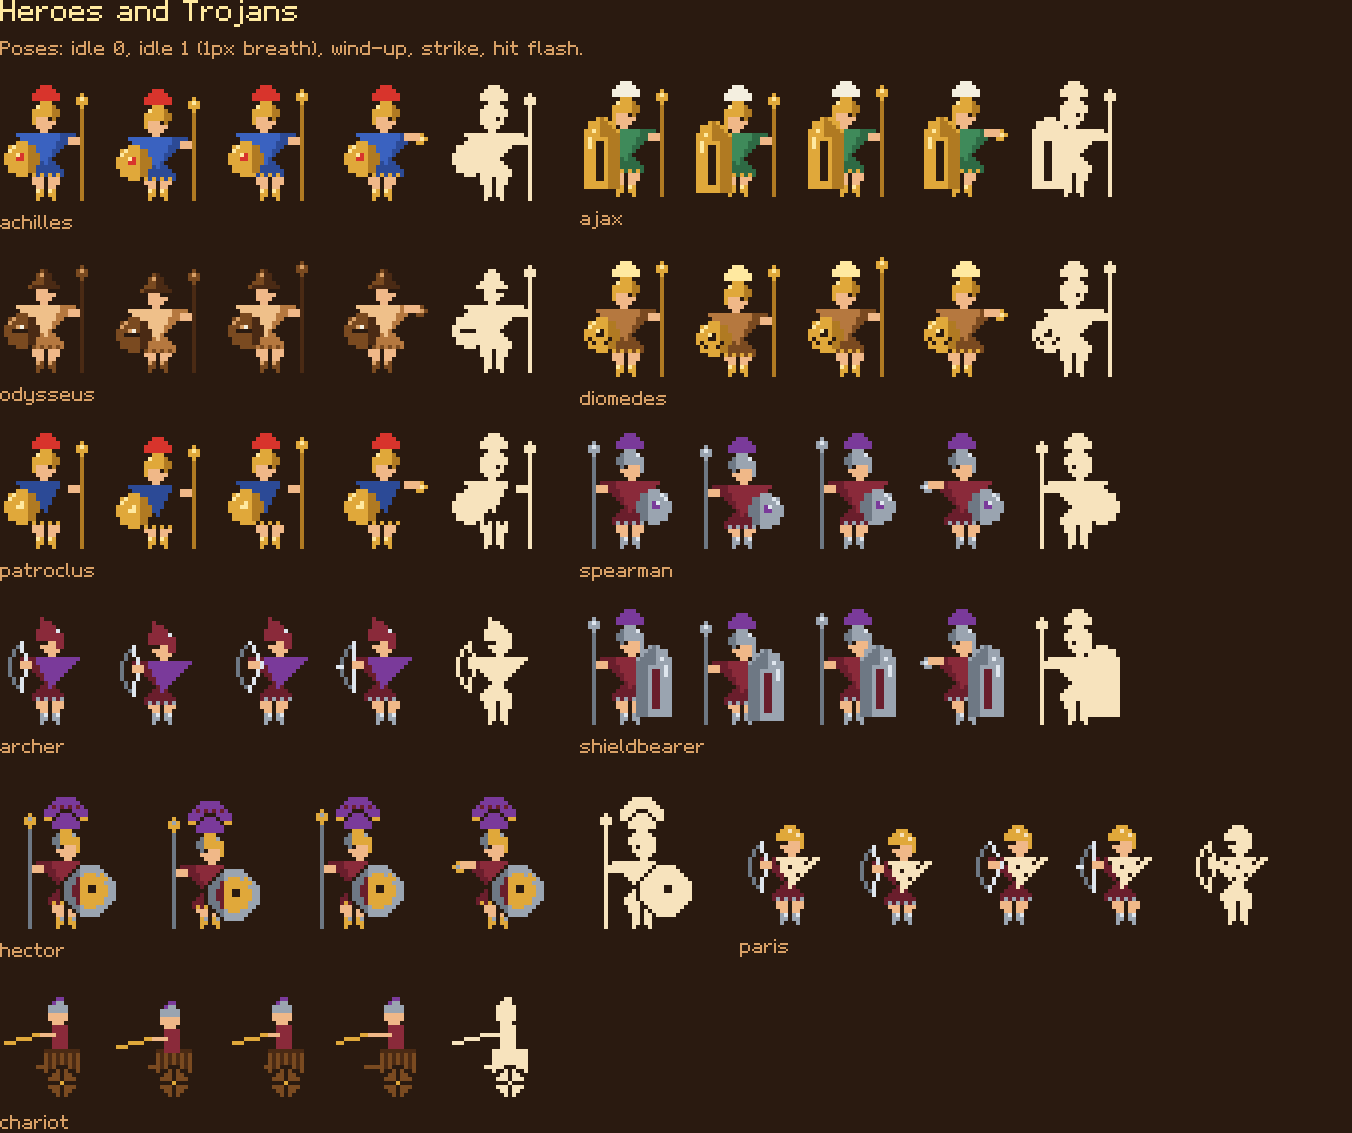
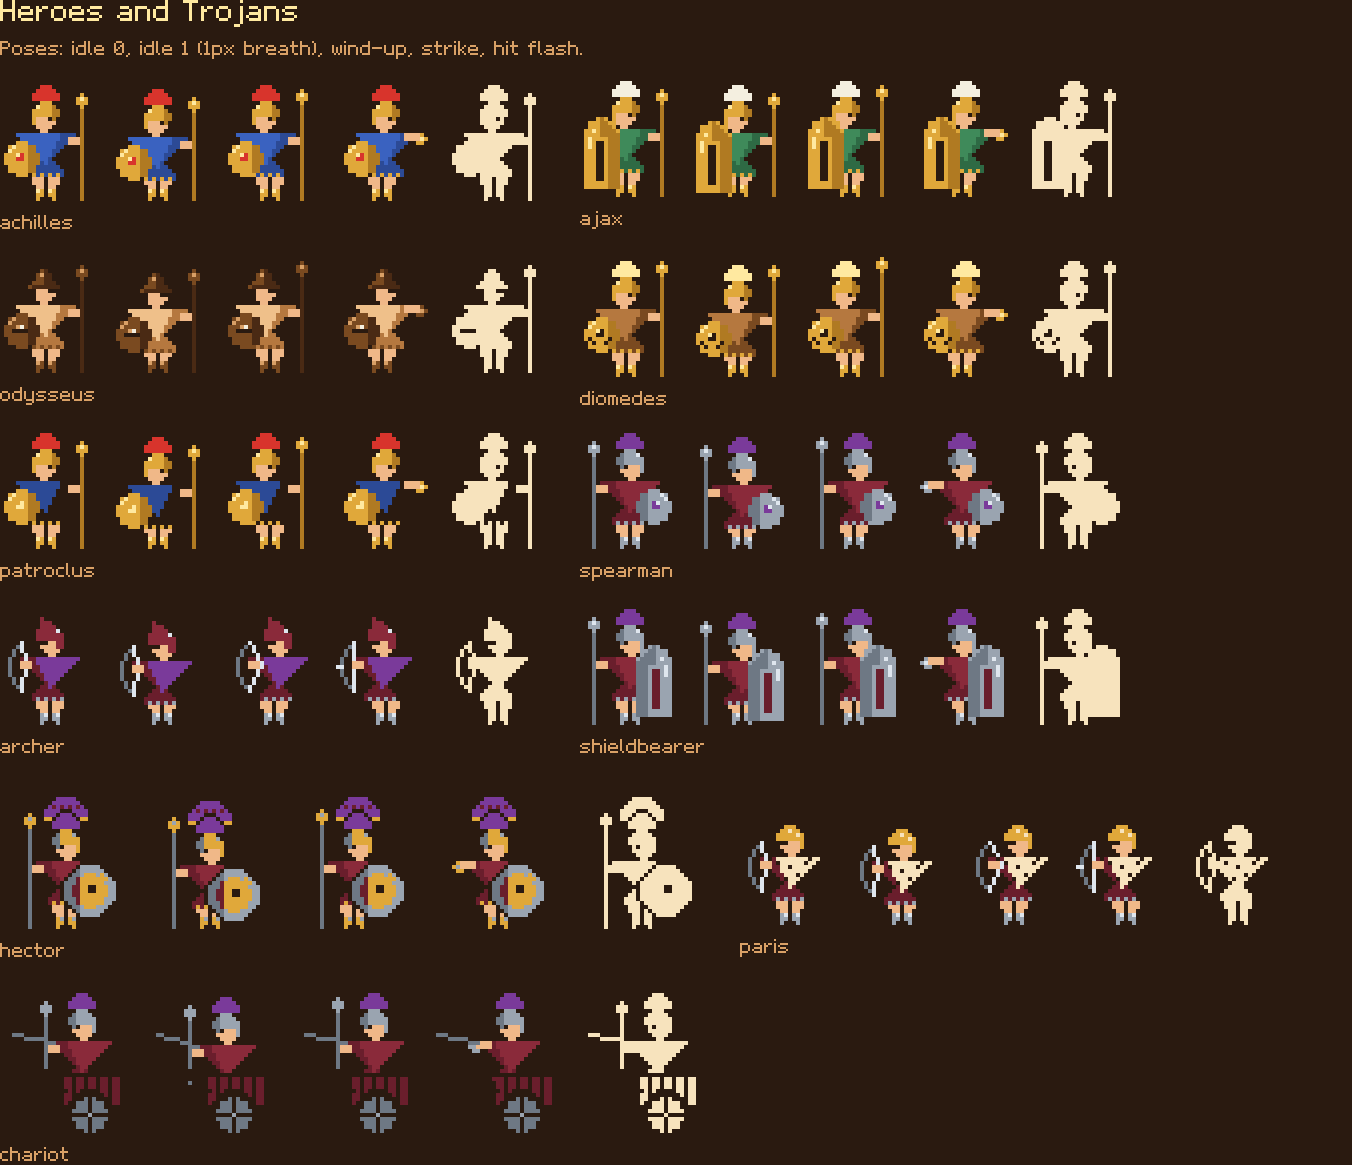
Chariot redrawn at boss size: full-scale driver, Geometric stick horse

diff --git a/src/art/sprites/bosses.ts b/src/art/sprites/bosses.ts
@@ -57,38 +57,44 @@ export function parisFrame(pose: Pose): PixelBuffer {
 }
 
 /**
- * Chariot (side view, facing left once mirrored): an ink horse, a wicker car
- * on one big four-spoke wheel, and a wine-clad driver. 24x32 cell.
+ * Chariot (side view, facing left once mirrored), 32x40 like Hector: a
+ * full-size Trojan driver standing in a wine car on a big four-spoke wheel,
+ * drawn by a Geometric stick horse in ink, exactly as horses stand on
+ * Geometric kraters: long neck, thin barrel, stick legs.
  */
+const driverSpec: FigureSpec = {
+  skin: C.skin, tunic: C.wine, tunicDk: C.wineDk, metal: C.iron, metalDk: C.ironDk, metalHi: C.iron,
+  crest: C.purple, emblem: C.purple, outline: C.ink, headgear: 'crest', shield: 'none', weapon: 'spear',
+};
+
 export function chariotFrame(pose: Pose): PixelBuffer {
-  const b = new PixelBuffer(24, 32);
+  const b = new PixelBuffer(BOSS_W, BOSS_H);
   const lunge = pose === 'strike' ? 2 : pose === 'windup' ? -1 : 0;
   const bob = pose === 'idle1' ? 1 : 0;
-  // horse (black-figure silhouette) in front, to the right before mirroring
-  const hx = 14 + lunge;
-  b.rect(hx, 19 + bob, 7, 4, C.ink); // body
-  b.triangle(hx + 6, 19 + bob, hx + 9, 13 + bob, hx + 9, 20 + bob, C.ink); // neck
-  b.rect(hx + 8, 13 + bob, 3, 2, C.ink); // head
-  b.set(hx + 7, 12 + bob, C.ink); // ear
-  for (const lx of [hx, hx + 2, hx + 5, hx + 6]) b.vline(lx, 23, 6 - (pose === 'idle1' && lx % 2 === 0 ? 1 : 0), C.ink); // legs
-    // car
-  b.rect(4, 17, 9, 6, C.umber);
-  b.hline(4, 17, 9, C.darkUmber);
-  for (let x = 5; x < 13; x += 2) b.vline(x, 18, 4, C.darkUmber);
-  b.hline(12, 21, hx - 12 + 1, C.umber); // pole to the horse
+  // driver: the standard warrior, cut at the hips, standing in the car
+  const driver = drawFigure(driverSpec, pose === 'strike' ? 'strike' : pose === 'windup' ? 'windup' : 'idle0').crop(0, 0, 24, 23);
+  b.blit(driver, 0, 2 + bob);
+  // horse, in front (right, before mirroring)
+  const hx = 17 + lunge;
+  b.rect(hx, 22, 10, 3, C.ink); // barrel
+  b.triangle(hx + 7, 23, hx + 10, 12, hx + 12, 23, C.ink); // long neck
+  b.rect(hx + 10, 11, 4, 3, C.ink); // head
+  b.set(hx + 11, 10, C.ink); // ear
+  b.line(hx, 22, hx - 2, 28, C.ink); // tail
+  const step = pose === 'idle1' ? 1 : 0;
+  for (const [lx, d] of [[hx + 1, 0], [hx + 3, step], [hx + 8, step], [hx + 10, 0]] as const) b.vline(lx + d, 25, 12, C.ink); // stick legs
+  // car and pole
+  b.rect(2, 23, 14, 8, C.wineDk);
+  b.hline(2, 23, 14, C.ink);
+  for (let x = 4; x < 16; x += 3) b.vline(x, 24, 7, C.ink);
+  b.hline(15, 27, hx - 15 + 2, C.ink); // pole
+  b.line(18 + lunge, 15 + bob, hx + 11, 13, C.ironDk); // reins
   // wheel
-  b.circle(8, 25, 4, C.ink);
-  b.circle(8, 25, 3, C.umber);
-  b.hline(5, 25, 7, C.ink);
-  b.vline(8, 22, 7, C.ink);
-  b.set(8, 25, C.bronze);
-  // driver
-  b.rect(7, 11 + bob, 4, 6, C.wine);
-    b.circle(9, 8 + bob, 2, C.skin);
-  b.halfCircle(9, 7 + bob, 2, C.iron);
-  b.set(9, 4 + bob, C.purple).set(8, 4 + bob, C.purple).set(10, 5 + bob, C.purple);
-  b.hline(10, 13 + bob, 5 + lunge, C.skin); // arms holding the reins
-  b.line(14 + lunge, 13 + bob, hx + 8, 15 + bob, C.bronze); // reins
+  b.circle(9, 33, 6, C.ink);
+  b.circle(9, 33, 4, C.ironDk);
+  b.hline(4, 33, 11, C.ink);
+  b.vline(9, 28, 11, C.ink);
+  b.set(9, 33, C.iron);
   return b.outlined(C.ink).flipped();
 }
 

diff --git a/src/view/BoardView.ts b/src/view/BoardView.ts
@@ -150,7 +150,7 @@ export class BoardView {
   spriteOrigin(type: string, x: number, y: number): { px: number; py: number } {
     if (type === 'ship') return this.shipOrigin(x, y);
     const o = unitOrigin(this.layout, x, y);
-    return type === 'hector' ? { px: o.px - 4, py: o.py - 8 } : o;
+    return type === 'hector' || type === 'chariot' ? { px: o.px - 4, py: o.py - 8 } : o;
   }
 
   shipOrigin(x: number, y: number): { px: number; py: number } {
